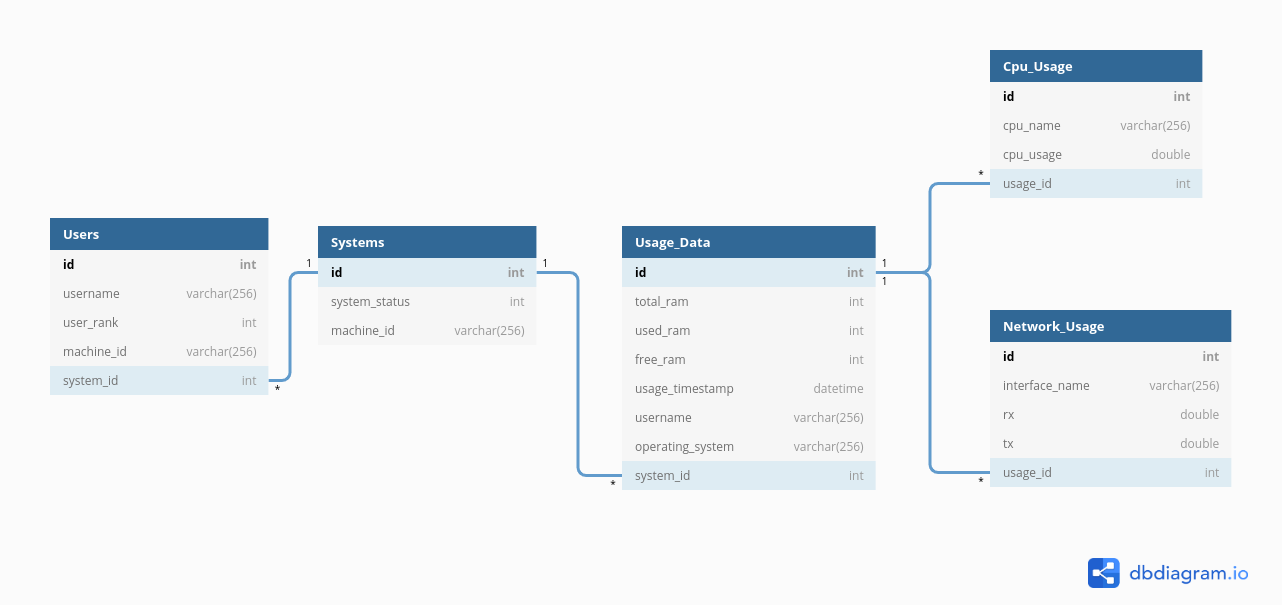
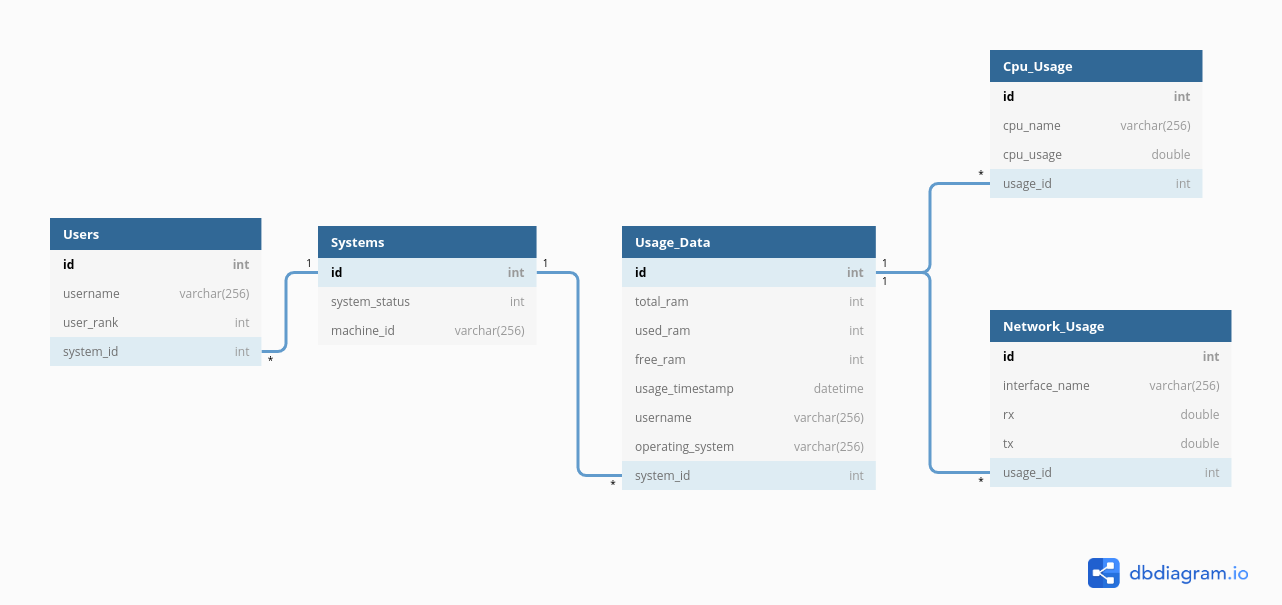
add new user form; databse changes

Changed region(s): [[0.0312, 0.4463, 0.2496, 0.6545], [0.1872, 0.357, 0.2184, 0.4463], [0.1248, 0.476, 0.1872, 0.5058]]

diff --git a/Server/src/database-manager.cpp b/Server/src/database-manager.cpp
@@ -163,13 +163,15 @@ void Database_Manager::insert_users(){
         std::string user_role_key = object + ".user_role";
         int user_role = std::stoi(ini.GetValue("users", user_role_key.c_str()));
 
-        std::string machine_id_key = object + ".machine_id";
-        std::string machine_id = ini.GetValue("users", machine_id_key.c_str());
-
         std::string system_id_str = object + ".system_id";
         int system_id = std::stoi(ini.GetValue("users", system_id_str.c_str()));
 
-        insert_user(user, user_role, machine_id, system_id);
+        DB_Users db_users;
+        db_users.username = user;
+        db_users.user_role = user_role;
+        db_users.system_id = system_id;
+
+        insert_user(db_users);
     }
 }
 
@@ -191,7 +193,8 @@ int Database_Manager::get_user_role(std::string user, std::string machine_id){
     soci::indicator ind;
 
     std::string query = get_query("../SQL/get-user-role.sql");
-    connection << query, soci::into(role, ind), soci::use(user, "user"), soci::use(machine_id, "machine_id");
+    connection << query, soci::into(role, ind), soci::use(user, "user"),
+                soci::use(machine_id, "machine_id");
 
     connection.close();
 
@@ -200,16 +203,6 @@ int Database_Manager::get_user_role(std::string user, std::string machine_id){
     }
     return -1;
 }
-
-void Database_Manager::update_user_role(std::string user, int user_role){
-    connection.open(type, connection_string);
-
-    std::string query = get_query("../SQL/uptate-user-role.sql");
-    connection << query, soci::use(user, "user"), soci::use(user_role, "user_role");
-
-    connection.close();
-}
-
 
 void Database_Manager::update_system_status(int system_id, int system_status){
     connection.open(type, connection_string);
@@ -231,14 +224,14 @@ void Database_Manager::insert_system(std::string machine_id){
     connection.close();
 }
 
-void Database_Manager::insert_user(std::string user, int user_role, std::string machine_id, int system_id){
+void Database_Manager::insert_user(DB_Users db_user){
     connection.open(type, connection_string);
 
     int role;
 
     std::string query = get_query("../SQL/insert-user.sql");
-    connection << query, soci::use(user, "user"), soci::use(user_role, "user_role"),soci::use(machine_id, "machine_id"),
-                soci::use(system_id, "system_id");
+    connection << query, soci::use(db_user.username, "user"), soci::use(db_user.user_role, "user_role"),
+                soci::use(db_user.system_id, "system_id");
 
     connection.close();
 }
@@ -463,9 +456,8 @@ std::vector<DB_Users> Database_Manager::get_all_users(){
         DB_Users db_user;
         db_user.id = r.get<int>(0);
         db_user.username = r.get<std::string>(1);
-        db_user.user_rank = r.get<int>(2);
-        db_user.machine_id = r.get<std::string>(3);
-        db_user.system_id = r.get<int>(4);
+        db_user.user_role = r.get<int>(2);
+        db_user.system_id = r.get<int>(3);
 
         user_list.push_back(db_user);
     } 
@@ -478,8 +470,8 @@ std::vector<DB_Users> Database_Manager::get_all_users(){
 void Database_Manager::update_user(DB_Users db_users){  
     connection.open(type, connection_string);
     std::string query = get_query("../SQL/update-user.sql");
-    connection << query, soci::use(db_users.id, "id"), soci::use(db_users.user_rank, "user_role"),
-                soci::use(db_users.machine_id, "machine_id"), soci::use(db_users.system_id, "system_id");
+    connection << query, soci::use(db_users.id, "id"), soci::use(db_users.user_role, "user_role"),
+                soci::use(db_users.system_id, "system_id");
     connection.close();
 }
 

diff --git a/Client/src/user-management-card.cpp b/Client/src/user-management-card.cpp
@@ -5,9 +5,8 @@
 
 User_Management_Card::User_Management_Card(wxWindow *parent, DB_Users db_user){
     this->db_user = db_user;
-
+	
 	sizer = new wxBoxSizer(wxVERTICAL);
-	machine_id_sizer = new wxBoxSizer(wxHORIZONTAL);
 	system_id_sizer = new wxBoxSizer(wxHORIZONTAL);
 
 	card_static = new wxStaticBox(parent, wxID_ANY, "");
@@ -20,12 +19,6 @@ User_Management_Card::User_Management_Card(wxWindow *parent, DB_Users db_user){
 	username_text->SetFont(Fonts::normal_bold);
 	username_text->SetForegroundColour(Colors::black);
 
-    machine_id_text = new wxStaticText(parent,wxID_ANY,"Machine ID:");
-	machine_id_text->SetFont(Fonts::normal_bold);
-	machine_id_text->SetForegroundColour(Colors::black);
-    machine_id_input = new wxTextCtrl(parent,wxID_ANY,db_user.machine_id);
-	machine_id_input->SetForegroundColour(Colors::white);
-
     system_id_text = new wxStaticText(parent,wxID_ANY,"System ID: ");
 	system_id_text->SetFont(Fonts::normal_bold);
 	system_id_text->SetForegroundColour(Colors::black);
@@ -34,22 +27,19 @@ User_Management_Card::User_Management_Card(wxWindow *parent, DB_Users db_user){
 
 	user_role_checkbox = new wxCheckBox(parent, wxID_ANY, "Administrator");
 	user_role_checkbox->SetForegroundColour(Colors::black);
-	if(db_user.user_rank == 1){
+	if(db_user.user_role == 1){
 		user_role_checkbox->SetValue(true);
-	} else if (db_user.user_rank == 0) {
+	} else if (db_user.user_role == 0) {
 		user_role_checkbox->SetValue(false);
 	}
+
+	system_id_sizer->Add(system_id_text, 0, wxALL, 5);
+	system_id_sizer->Add(system_id_input, 1, wxALL | wxEXPAND, 5);
 
 	card_sbox = new wxStaticBoxSizer(card_static, wxVERTICAL);
 	card_sbox->Add(id_text, 1, wxALL | wxEXPAND, 5);
 	card_sbox->Add(username_text, 1, wxALL | wxEXPAND, 5);
 
-	machine_id_sizer->Add(machine_id_text, 0, wxALL, 5);
-	machine_id_sizer->Add(machine_id_input, 1, wxALL | wxEXPAND, 5);
-	system_id_sizer->Add(system_id_text, 0, wxALL, 5);
-	system_id_sizer->Add(system_id_input, 1, wxALL | wxEXPAND, 5);
-
-	card_sbox->Add(machine_id_sizer, 0, wxALL | wxEXPAND, 5);
 	card_sbox->Add(system_id_sizer, 0, wxALL | wxEXPAND, 5);
 	card_sbox->Add(user_role_checkbox, 1, wxALL | wxEXPAND, 5);
 
@@ -63,23 +53,21 @@ wxStaticBoxSizer* User_Management_Card::get_items(){
 }
 
 DB_Users User_Management_Card::get_db_user(){
-    this->db_user.machine_id = machine_id_input->GetValue().ToStdString();
     this->db_user.system_id = std::stoi(system_id_input->GetValue().ToStdString());
 	if(user_role_checkbox->GetValue()){
-		this->db_user.user_rank = 1;
+		this->db_user.user_role = 1;
 	} else {
-		this->db_user.user_rank = 0;
+		this->db_user.user_role = 0;
 	}
     return db_user;
 }
 
 void User_Management_Card::update(DB_Users db_user){
 	this->db_user = db_user;
-	machine_id_input->SetValue(db_user.machine_id);
 	system_id_input->SetValue(std::to_string(db_user.system_id));
-	if(db_user.user_rank == 1){
+	if(db_user.user_role == 1){
 		user_role_checkbox->SetValue(true);
-	} else if (db_user.user_rank == 0) {
+	} else if (db_user.user_role == 0) {
 		user_role_checkbox->SetValue(false);
 	}
 }

diff --git a/Client/src/add-user-form.cpp b/Client/src/add-user-form.cpp
@@ -1,0 +1,47 @@
+#include "add-user-form.h"
+
+#include "colors.h"
+#include "fonts.h"
+#include "gui-element-id.h"
+
+Add_User_From::Add_User_From(){}
+
+Add_User_From::Add_User_From(wxWindow *parent){
+    static_box = new wxStaticBox(parent, wxID_ANY,"");
+	static_box->SetBackgroundColour(Colors::light_blue);
+
+	sizer = new wxBoxSizer(wxVERTICAL);
+
+	username_sizer = new wxBoxSizer(wxHORIZONTAL);
+    username_text = new wxStaticText(parent,wxID_ANY,"Username:");
+	username_text->SetForegroundColour(Colors::black);
+	username_input = new wxTextCtrl(parent,wxID_ANY,"");
+
+	system_id_sizer = new wxBoxSizer(wxHORIZONTAL);
+    system_id_text = new wxStaticText(parent,wxID_ANY,"System ID:");
+	system_id_text->SetForegroundColour(Colors::black);
+    system_id_input = new wxTextCtrl(parent,wxID_ANY,"");
+
+	submit_button = new wxButton(parent, GUI_Element_ID::BUTTON_ADD_NEW_USER, "Submit");
+	submit_button->SetBackgroundColour(Colors::light_green);
+	submit_button->SetForegroundColour(Colors::black);
+
+
+	username_sizer->Add(username_text, 0, wxALL, 5);
+	username_sizer->Add(username_input, 1, wxALL | wxEXPAND, 5);
+	system_id_sizer->Add(system_id_text, 0, wxALL, 5);
+	system_id_sizer->Add(system_id_input, 1, wxALL | wxEXPAND, 5);
+	sizer->Add(username_sizer, 1, wxALL | wxEXPAND, 5);
+	sizer->Add(system_id_sizer, 1, wxALL | wxEXPAND, 5);
+
+	static_box_sizer = new wxStaticBoxSizer(static_box,wxVERTICAL);
+	static_box_sizer->Add(sizer, 0, wxALL | wxEXPAND, 5);
+	static_box_sizer->Add(submit_button, 0, wxALL | wxEXPAND, 5);
+}
+
+Add_User_From::~Add_User_From(){
+}
+
+wxStaticBoxSizer* Add_User_From::get_all(){
+    return static_box_sizer;
+}

diff --git a/Shared/Utils-lib/src/database-utils.cpp b/Shared/Utils-lib/src/database-utils.cpp
@@ -4,8 +4,8 @@
 #include <iostream>
 std::string Database_Structs_Utils::serialize(DB_Users user){
     std::string serialization;
-    serialization = std::to_string(user.id) + ";" + user.username + ";" + std::to_string(user.user_rank) + 
-                    ";" + user.machine_id + ";" + std::to_string(user.system_id);
+    serialization = std::to_string(user.id) + ";" + user.username + ";" + std::to_string(user.user_role) + 
+                    ";" + std::to_string(user.system_id);
     return serialization;
 }
 
@@ -19,13 +19,10 @@ DB_Users Database_Structs_Utils::deserialize_db_users(std::string serialization)
     std::string username;
     getline(iss, username, ';');
 
-    std::string user_rank_str;
-    getline(iss, user_rank_str, ';');
+    std::string user_role_str;
+    getline(iss, user_role_str, ';');
 
-    int user_rank = std::stoi(user_rank_str);
-
-    std::string machine_id;
-    getline(iss, machine_id, ';');
+    int user_role = std::stoi(user_role_str);
 
     std::string system_id_str;
     getline(iss, system_id_str, ';');
@@ -35,8 +32,7 @@ DB_Users Database_Structs_Utils::deserialize_db_users(std::string serialization)
     DB_Users db_user;
     db_user.id = id;
     db_user.username = username;
-    db_user.user_rank = user_rank;
-    db_user.machine_id = machine_id;
+    db_user.user_role = user_role;
     db_user.system_id = system_id;
 
     return db_user;

diff --git a/Client/src/user-management-page.cpp b/Client/src/user-management-page.cpp
@@ -10,7 +10,8 @@ User_Management_Page::User_Management_Page(wxNotebook *main_notebook){
 	user_role = "Not set";
 
     page = new wxPanel(main_notebook, wxID_ANY);
-	
+	add_user_form = new Add_User_From(page);
+
 	box_sizer= new wxBoxSizer(wxVERTICAL);
     submit_changes_button = new wxButton(page, GUI_ELEMENT_ID::BUTTON_USER_MANAGEMENT_SUMBIT_CHANGES, "Sumbit changes");
 	submit_changes_button->SetForegroundColour(Colors::black);
@@ -29,6 +30,7 @@ User_Management_Page::User_Management_Page(wxNotebook *main_notebook){
 	scrolled_panel->FitInside();
 	scrolled_panel->SetScrollRate(20,20);
 
+	box_sizer->Add(add_user_form->get_all(), 0, wxALL | wxEXPAND, 5);
 	box_sizer->Add(buttons_sizer, 0, wxALL | wxEXPAND, 5);
 	box_sizer->Add(scrolled_sizer, 1, wxALL | wxEXPAND, 5);
 	page->SetSizerAndFit(box_sizer);

diff --git a/Client/include/add-user-form.h b/Client/include/add-user-form.h
@@ -1,0 +1,29 @@
+#ifndef ADD_USER_FORM
+#define ADD_USER_FORM
+
+
+#ifndef WX_PRECOMP
+#include <wx/wx.h>
+#endif
+#include <wx/notebook.h>
+
+#include "gui-element-id.h"
+
+class Add_User_From{
+public:
+    Add_User_From();
+    Add_User_From(wxWindow *parent);
+    ~Add_User_From();
+
+    wxStaticBoxSizer* get_all();
+private:
+    wxBoxSizer *sizer, *system_id_sizer, *username_sizer;
+    wxStaticBoxSizer *static_box_sizer;
+    wxStaticBox *static_box;
+    wxButton *submit_button;
+    wxTextCtrl *system_id_input, *username_input;
+    wxCheckBox *user_role_checkbox;
+	wxStaticText *id_text, *username_text, *system_id_text;
+};
+
+#endif

diff --git a/Server/include/database-manager.h b/Server/include/database-manager.h
@@ -23,13 +23,12 @@ public:
     void init();
 
     int get_user_role(std::string user, std::string machine_id);
-    void update_user_role(std::string user, int user_role);
     void update_system_status(int system_id, int system_status);
     void update_user(DB_Users db_users);
     void update_system(DB_Systems db_systems);
 
     void insert_system(std::string machine_id);
-    void insert_user(std::string user, int user_role, std::string machine_id, int system_id);
+    void insert_user(DB_Users db_user);
     void insert_usage_data(System *system);
     
     int get_system_id_from(std::string user);

diff --git a/Client/include/user-management-page.h b/Client/include/user-management-page.h
@@ -12,6 +12,7 @@
 #include "system.h"
 #include "user-management-card.h"
 #include "database-structs.h"
+#include "add-user-form.h"
 
 class User_Management_Page{
 public:
@@ -26,6 +27,9 @@ public:
 
 private:
     std::string user_role;
+
+	Add_User_From *add_user_form;
+
     wxNotebookPage *page;
     wxBoxSizer *box_sizer, *scrolled_sizer, *buttons_sizer;
     wxStaticBox *static_box;

diff --git a/Client/src/network-management-page.cpp b/Client/src/network-management-page.cpp
@@ -27,7 +27,6 @@ Network_Management_Page::Network_Management_Page(wxNotebook *main_notebook, Syst
 
 	system_management_page = new System_Management_Page(notebook);
 	notebook->AddPage(system_management_page->get_all(), "System Management");
-
 	
 	box_sizer->Add(network_text, 0, wxALL, 5);
 	box_sizer->Add(user_role_text, 0, wxALL, 5);

diff --git a/Client/include/user-management-card.h b/Client/include/user-management-card.h
@@ -6,6 +6,7 @@
 #endif
  
 #include <string>
+
 #include "database-structs.h"
 
 class User_Management_Card{
@@ -21,7 +22,6 @@ public:
 
 private:
     DB_Users db_user;
-	bool active;
 	wxBoxSizer *sizer, *machine_id_sizer, *system_id_sizer;
 	wxStaticBox *card_static;
 	wxStaticBoxSizer *card_sbox;

diff --git a/Client/include/gui-element-id.h b/Client/include/gui-element-id.h
@@ -15,7 +15,9 @@ enum GUI_Element_ID{
 	BUTTON_USER_MANAGEMENT_SUMBIT_CHANGES,
 	BUTTON_USER_MANAGEMENT_REFRESH,
 	BUTTON_SYSTEM_MANAGEMENT_SUMBIT_CHANGES,
-	BUTTON_SYSTEM_MANAGEMENT_REFRESH
+	BUTTON_SYSTEM_MANAGEMENT_REFRESH,
+	BUTTON_ADD_NEW_USER,
+	BUTTON_ADD_NEW_SYSTEM
 };
 
 #endif

diff --git a/Shared/Structs/database-structs.h b/Shared/Structs/database-structs.h
@@ -39,8 +39,7 @@ typedef struct DB_Systems{
 typedef struct DB_Users{
     int id;
     std::string username;
-    int user_rank;
-    std::string machine_id;
+    int user_role;
     int system_id;
 }DB_Users;
 
